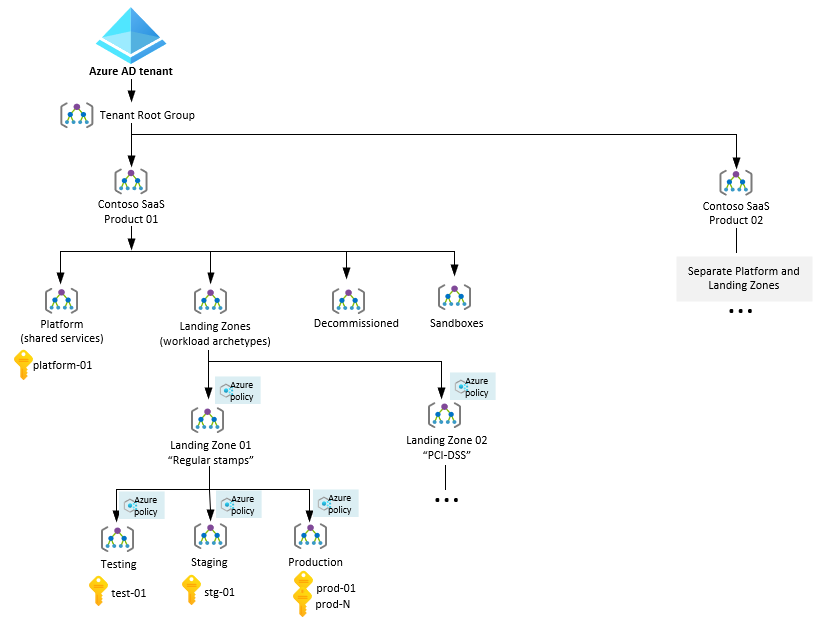
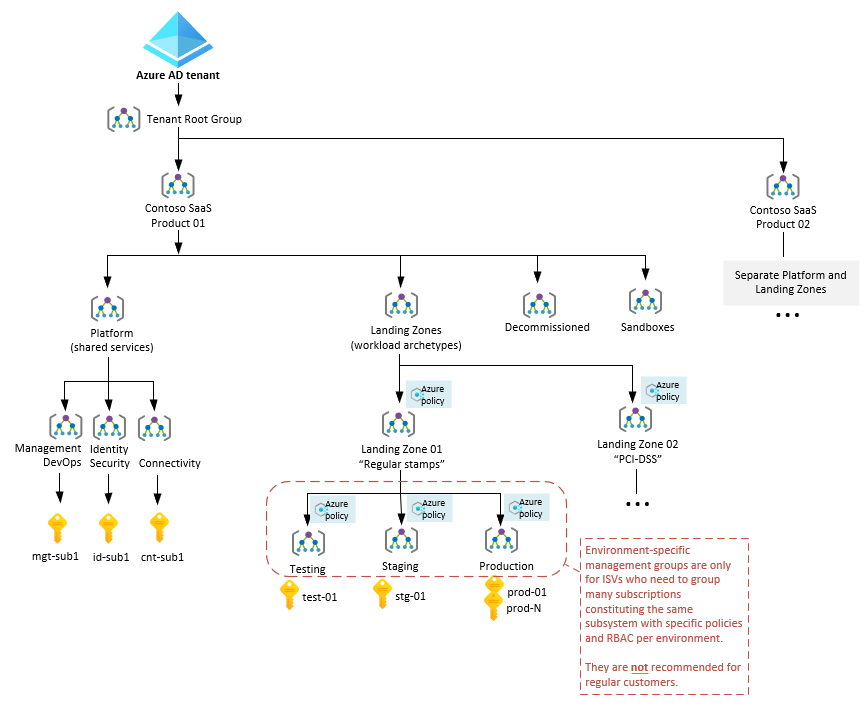
Include Jack/Kevin's last points

diff --git a/docs/ready/landing-zone/isv-landing-zone.md b/docs/ready/landing-zone/isv-landing-zone.md
@@ -163,9 +163,9 @@ For convenient separation of roles and policies for enterprise customers, the **
 
 However, if you expect to need separate policies for different parts of the centralized platform, you should deploy the additional levels in the management group hierarchy under the **Platform** management group. This ensure you can separate the components that will be managed by different teams.
 
-The following diagram illustrates two potential implementations of the **Platform** management group. Option A shows a simple scenario, where the **Platform** management group contains a single platform subscription. Option B shows a more complex scenario, where the **Platform** management group contains three child management groups: **Management and DevOps**, **Identity and Security**, and **Connectivity**, each containing a subscription with the relevant resources.
+The following diagram illustrates two potential implementations of the **Platform** management group. Option A shows a more comprehensive scenario, where the **Platform** management group contains three child management groups: **Management and DevOps**, **Identity and Security**, and **Connectivity**, each containing a subscription with the relevant resources. Option A shows a simple scenario, where the **Platform** management group contains a single platform subscription.
 
-![Diagram that shows two management group hierarchies. Option A includes a platform management group options with a single management group. Option B shows separate platform management groups for management, connectivity, and identity.](./media/isv-landing-zone/isv-platform-mg.png)
+![Diagram that shows two management group hierarchies. Option A shows separate platform management groups for management, connectivity, and identity. Option B includes a platform management group options with a single management group.](./media/isv-landing-zone/isv-platform-mg.png)
 
 ### Landing Zones management group
 
@@ -180,13 +180,22 @@ This management group contains one or more child management groups. Each of the 
 
 SaaS ISVs often organize their cloud environments by modeling their software development lifecycle environments through a sequence. Commonly, this requires deployment first to a *Development* environment, then a *Test* environment, a *Staging* environment, and then to the *Production* environment. One common difference between the environments is the Azure RBAC rules, such as who can access these groups of subscriptions. For example, the DevOps, SaaSOps, development, and test teams might have different levels of access to different environments.
 
-Most Azure customers use separate Azure subscriptions for each application team and have hundreds of applications. If each application had its own development, test, staging, and production management group there would be a very large number of management groups with almost identical policies. The [Enterprise-Scale Landing Zone FAQ](../enterprise-scale/faq.md#how-do-we-handle-devtestproduction-workload-landing-zones-in-enterprise-scale-architecture) advises against using separate management groups for each environment for most customers. Instead, it advises using separate subscriptions within a single management group.
+> [!WARNING]
+> Most Azure customers use separate Azure subscriptions for each application team and have hundreds of applications. If each application had its own development, test, staging, and production management group there would be a very large number of management groups with almost identical policies. The [Enterprise-Scale Landing Zone FAQ](../enterprise-scale/faq.md#how-do-we-handle-devtestproduction-workload-landing-zones-in-enterprise-scale-architecture) advises against using separate management groups for each environment for most customers. Instead, it advises using separate subscriptions within a single management group.
 
 However, SaaS ISVs can have different requirements to most other Azure customers. SaaS ISVs might need to group multiple subscriptions that represent *shards* or *partitions* of the same subsystem, application, or workload. If you have specific requirements to have policies or role assignments applied to these groups of subscriptions in way that's noticeably different from the archetype management group, you can consider creating child management groups that correspond to each environment under the archetype management group.
 
-The following diagram illustrates two potential options. Option A represents a scenario where you use separate subscriptions for each environment but don't create environment-specific management groups. Option B shows a SaaS ISV scenario with environment-specific management groups under the **Regular stamps** management group. Each environment-specific management group contains multiple subscriptions. Over time, the ISV scales their Azure resources in each environment across an increasing number of subscriptions with a common set of policies and role assignments.
+The following diagrams illustrate two potential options. Option A represents a scenario where you use separate subscriptions for each environment but don't create environment-specific management groups. Option B shows a SaaS ISV scenario with environment-specific management groups under the **Regular stamps** management group. Each environment-specific management group contains multiple subscriptions. Over time, the ISV scales their Azure resources in each environment across an increasing number of subscriptions with a common set of policies and role assignments.
 
-![Diagram that shows two management group hierarchies. Option B includes an environment-specific management group level for SaaS ISVs who need to group many subscriptions of the same subsystem.](./media/isv-landing-zone/isv-landing-zones-mg.png)
+Select each tab to see the two diagrams.
+
+# [Without environment-specific management groups](#tab/mg-env-no)
+
+![Diagram that shows landing zone hierarchy without environment-specific management groups.](./media/isv-landing-zone/isv-landing-zones-mg-env-no.png)
+
+# [With environment-specific management groups](#tab/mg-env-yes)
+
+![Diagram that shows landing zone hierarchy with environment-specific management group level for SaaS ISVs who need to group many subscriptions of the same subsystem.](./media/isv-landing-zone/isv-landing-zones-mg-env-yes.png)
 
 ### Decommissioned and Sandboxes management groups
 
